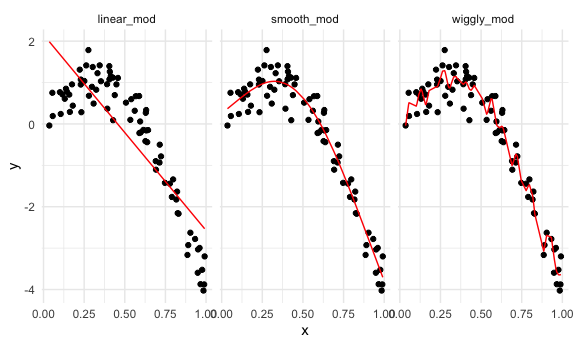
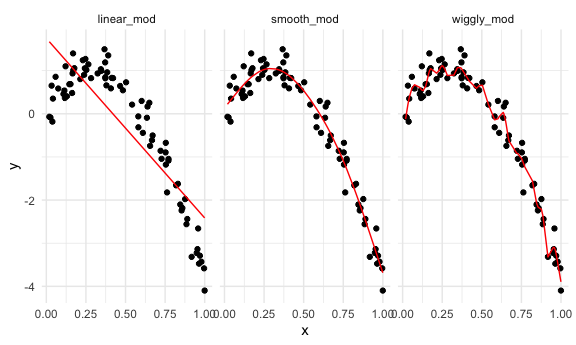
cross validation using modelr

diff --git a/cross_validation.md b/cross_validation.md
@@ -71,16 +71,134 @@ Look at prediction accuracy.
 rmse(linear_mod, test_df)
 ```
 
-    ## [1] 0.9733261
+    ## [1] 0.702876
 
 ``` r
 rmse(smooth_mod, test_df)
 ```
 
-    ## [1] 0.3964166
+    ## [1] 0.3258969
 
 ``` r
 rmse(wiggly_mod, test_df)
 ```
 
-    ## [1] 0.4339285
+    ## [1] 0.3224531
+
+## Cross validation using `modelr`
+
+``` r
+# train and test side by side + id -- list columns
+cv_df =
+  crossv_mc(nonlin_df, 100)
+```
+
+What is happening here …
+
+``` r
+# R default stores as resample
+cv_df %>% pull(train) %>% .[[1]] %>% as_tibble()
+```
+
+    ## # A tibble: 79 x 3
+    ##       id      x       y
+    ##    <int>  <dbl>   <dbl>
+    ##  1     2 0.425   0.882 
+    ##  2     3 0.650   0.255 
+    ##  3     4 0.345   1.03  
+    ##  4     6 0.185   0.643 
+    ##  5     7 0.959  -2.66  
+    ##  6     8 0.466   0.644 
+    ##  7     9 0.876  -1.98  
+    ##  8    11 0.0189 -0.0696
+    ##  9    13 0.950  -3.22  
+    ## 10    14 0.391   1.35  
+    ## # … with 69 more rows
+
+``` r
+cv_df %>% pull(test) %>% .[[1]] %>% as_tibble()
+```
+
+    ## # A tibble: 21 x 3
+    ##       id      x       y
+    ##    <int>  <dbl>   <dbl>
+    ##  1     1 0.807  -1.48  
+    ##  2     5 0.610  -0.442 
+    ##  3    10 0.246   1.05  
+    ##  4    12 0.163   0.482 
+    ##  5    22 0.0261 -0.0862
+    ##  6    24 0.348   0.995 
+    ##  7    25 0.0334  0.652 
+    ##  8    42 0.121   1.10  
+    ##  9    44 0.917  -3.31  
+    ## 10    50 0.831  -1.62  
+    ## # … with 11 more rows
+
+``` r
+# convert to tibble
+cv_df =  
+  cv_df %>% 
+  mutate(
+    train = map(train, as_tibble),
+    test = map(test, as_tibble)
+  )
+```
+
+Let’s try to fit models and get RMSEs for them.
+
+``` r
+cv_df =
+  cv_df %>% 
+  mutate(
+    linear_mod = map(.x = train, ~lm(y ~ x, data = .x)),
+    smooth_mod = map(.x = train, ~gam(y ~ s(x), data = .x)),
+    wiggly_mod = map(.x = train, ~gam(y ~ s(x, k = 30), sp = 10e-6, data = .x))
+  ) %>% 
+  mutate(
+    rmse_linear = map2_dbl(.x = linear_mod, .y = test, ~rmse(model = .x, data = .y)),
+    rmse_smooth = map2_dbl(.x = smooth_mod, .y = test, ~rmse(model = .x, data = .y)),
+    rmse_wiggly = map2_dbl(.x = wiggly_mod, .y = test, ~rmse(model = .x, data = .y))
+  )
+```
+
+What do these results say about the model choices?
+
+``` r
+# smooth model is the best in this case
+cv_df %>% 
+  select(starts_with("rmse")) %>% 
+  pivot_longer(
+    everything(),
+    names_to = "model",
+    values_to = "rmse",
+    names_prefix = "rmse_"
+  ) %>% 
+  ggplot(aes(x = model, y = rmse)) +
+  geom_violin()
+```
+
+<img src="cross_validation_files/figure-gfm/unnamed-chunk-12-1.png" width="90%" />
+
+Compute averages …
+
+``` r
+cv_df %>% 
+  select(starts_with("rmse")) %>% 
+  pivot_longer(
+    everything(),
+    names_to = "model",
+    values_to = "rmse",
+    names_prefix = "rmse_"
+  ) %>% 
+  group_by(model) %>% 
+  summarize(avg_rmse = mean(rmse))
+```
+
+    ## `summarise()` ungrouping output (override with `.groups` argument)
+
+    ## # A tibble: 3 x 2
+    ##   model  avg_rmse
+    ##   <chr>     <dbl>
+    ## 1 linear    0.786
+    ## 2 smooth    0.293
+    ## 3 wiggly    0.326
